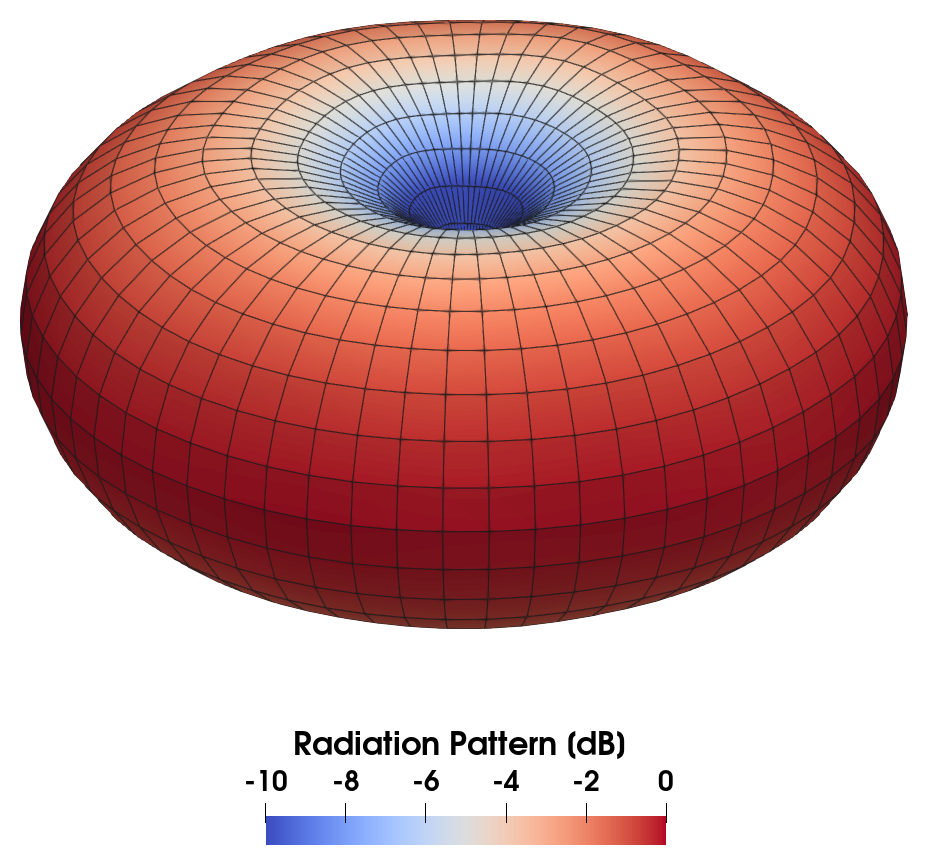
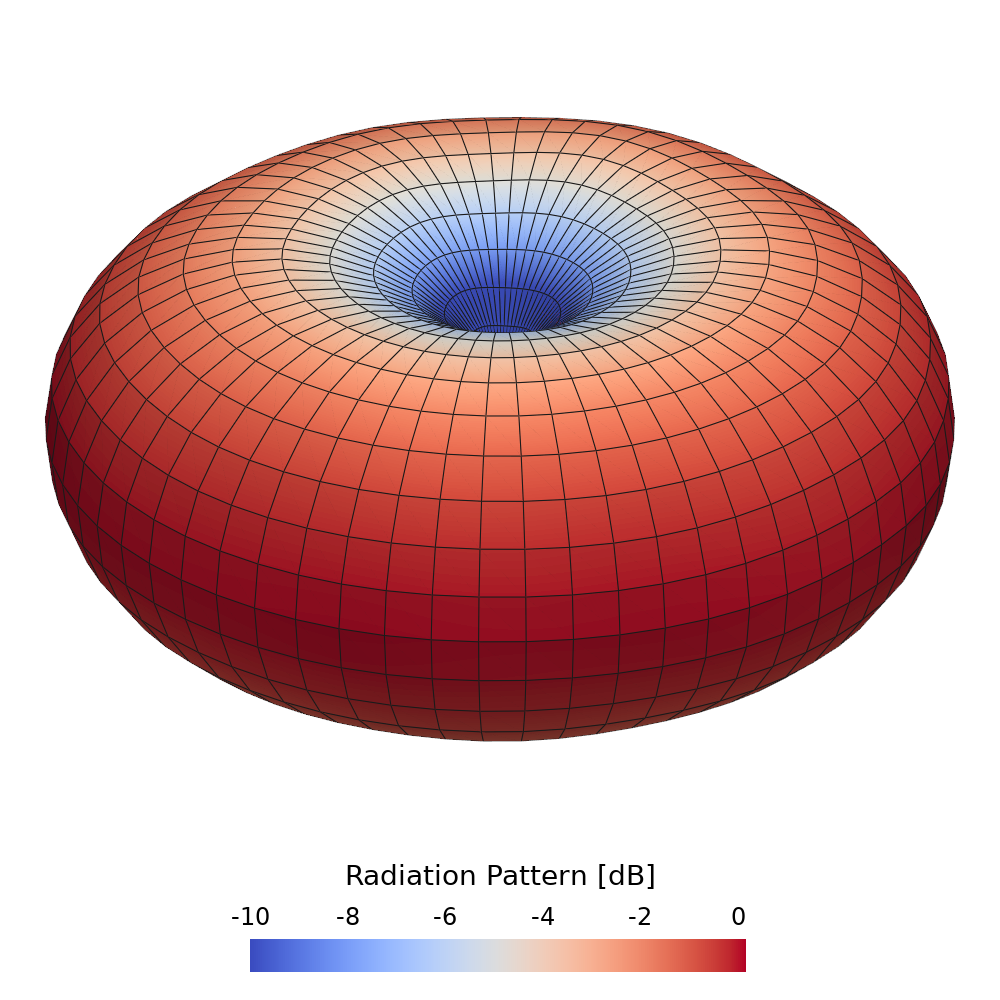
Render the Stutzman 2012 scenes with PyVista

diff --git a/Electromagnetics/Stutzman_2012_Dipole_Antenna/case.py b/Electromagnetics/Stutzman_2012_Dipole_Antenna/case.py
@@ -228,7 +228,7 @@ class Stutzman2012DipoleAntenna(ValidationCase):
         if not self.is_main():
             return
 
-        # The 3D pattern for the scene of create_scene.py.
+        # The 3D pattern for the scene of create_scenes().
         numpy.savez(
             self.scene_data_path,
             thetas=self.thetas,
@@ -265,6 +265,73 @@ class Stutzman2012DipoleAntenna(ValidationCase):
             ax.set_title(title, fontweight="bold")
             fig.savefig(self.results_path / f"Far_Field_{title}.png", bbox_inches="tight")
             plt.close(fig)
+
+    def create_scenes(self):
+        import pyvista as pv
+
+        from casekit.pyvista_scene import (
+            FieldExportReader,
+            add_colorbar,
+            at_phase,
+            create_scene,
+            gif,
+        )
+
+        colorbar = dict(label_format="%.0f", location="bottom", font_size=24)
+
+        # The far-field radiation pattern as the surface at the radius 4.5 pattern(theta, phi),
+        # with the pattern in dB (20 log10: the pattern is a field amplitude) on it.
+        far_field = numpy.load(self.scene_data_path)
+        theta, phi = numpy.meshgrid(far_field["thetas"], far_field["phis"], indexing="ij")
+        pattern = far_field["radiation_pattern"]
+        radius = 4.5 * pattern
+        surface = pv.StructuredGrid(
+            radius * numpy.sin(theta) * numpy.cos(phi),
+            radius * numpy.sin(theta) * numpy.sin(phi),
+            radius * numpy.cos(theta),
+        )
+        decibel = 20 * numpy.log10(numpy.maximum(pattern, 1e-6))
+        surface["Radiation Pattern"] = decibel.ravel(order="F")
+
+        scene = create_scene((1000, 1000))
+        actor = scene.add_mesh(
+            surface,
+            scalars="Radiation Pattern",
+            clim=(-10.0, 0.0),
+            show_edges=True,
+            edge_color=(0.1, 0.1, 0.1),
+            line_width=1,
+        )
+        scene.view_vector((4, 4, 3), viewup=(0, 0, 1))
+        scene.camera.zoom(1.35)
+        # Room for the color bar below: the camera moves down along its up direction.
+        shift = -0.8 * numpy.array(scene.camera.up)
+        scene.camera.focal_point += shift
+        scene.camera.position += shift
+        add_colorbar(scene, actor, "Radiation Pattern [dB]", n_labels=6, **colorbar)
+        scene.show(screenshot=self.results_path / "Scene_Radiation_Pattern.png")
+
+        # The magnitude of the electric field E(t) = E_r cos(wt) - E_i sin(wt) in the yz-plane
+        # over half a period, after which the magnitude repeats.
+        bodies = FieldExportReader(self.dir_path).read()
+
+        def section(phase_deg):
+            domain = at_phase(bodies, "Electric Field", phase_deg)["Domain"]
+            return domain.slice(normal="x", origin=(0.0, 0.0, 0.0))
+
+        field = dict(scalars="Electric Field", clim=(0.0, 30.0), name="field")
+        scene = create_scene((1000, 1000))
+        actor = scene.add_mesh(section(0.0), **field)
+        scene.view_yz()
+        scene.camera.zoom(1.15)
+        # Room for the color bar below: the camera moves down (-z).
+        scene.camera.focal_point += numpy.array([0.0, 0.0, -1.0])
+        scene.camera.position += numpy.array([0.0, 0.0, -1.0])
+        add_colorbar(scene, actor, "Electric Field [V/m]", n_labels=4, **colorbar)
+        with gif(scene, self.results_path / "Electric_Field.gif", fps=12) as write_frame:
+            for phase_deg in range(0, 180, 5):
+                scene.add_mesh(section(phase_deg), **field)
+                write_frame()
 
 
 if __name__ == "__main__":

diff --git a/casekit/pyvista_scene.py b/casekit/pyvista_scene.py
@@ -310,6 +310,13 @@ def save_gif(frames: Sequence[np.ndarray], path: Path, fps: int = 8):
     images = [Image.fromarray(frame) for frame in frames]
     palette = Image.fromarray(np.vstack(frames)).quantize(method=Image.Quantize.MAXCOVERAGE)
     indices = [np.array(image.quantize(palette=palette)) for image in images]
+    # Pillow looks up the palette approximately, which can turn the white background into a
+    # near-white color of the palette: white stays white.
+    colors = np.frombuffer(palette.palette.tobytes(), np.uint8).reshape(-1, 3)
+    white = np.flatnonzero((colors == 255).all(axis=1))
+    if len(white):
+        for frame, index in zip(frames, indices):
+            index[(frame == 255).all(axis=2)] = white[0]
     for i in range(1, len(frames)):
         still = (frames[i] == frames[i - 1]).all(axis=2)
         indices[i][still] = indices[i - 1][still]

diff --git a/Electromagnetics/Stutzman_2012_Dipole_Antenna/README.md b/Electromagnetics/Stutzman_2012_Dipole_Antenna/README.md
@@ -128,9 +128,9 @@ To visualize the resulting electric field, we export it to a VTK file, as
 outlined in the
 [Visualization](https://raiden-numerics.github.io/mufem-doc/framework/visualization.html)
 section of the documentation.
-We then use the script from the
-[create_scene.py](create_scene.py) file to plot it in
-ParaView (run with `pvpython create_scene.py`).
+It is then plotted with [PyVista](https://pyvista.org/) by `create_scenes()` in
+[case.py](case.py) (run the case with `--scenes`, or with `--scenes-only` after a run; see
+[Scenes](https://github.com/Raiden-Numerics/mufem/blob/main/VALIDATION.md#scenes)).
 
 
 ## Results
@@ -140,9 +140,7 @@ ParaView (run with `pvpython create_scene.py`).
 To visualize the antenna's radiation pattern, we employ the
 [Far-Field Radiation Sensor](https://raiden-numerics.github.io/mufem-doc/models/electromagnetics/time_harmonic_maxwell/reports/far_field_radiation_sensor.html)
 to generate the far-field data.
-Subsequently, we utilize the
-[create_scene.py](create_scene.py) file to plot it
-in ParaView.
+Subsequently, it is plotted by `create_scenes()` in [case.py](case.py).
 As shown in Figure 3, the resulting radiation pattern exhibits a donut-like shape,
 characteristic of dipole radiation.
 
